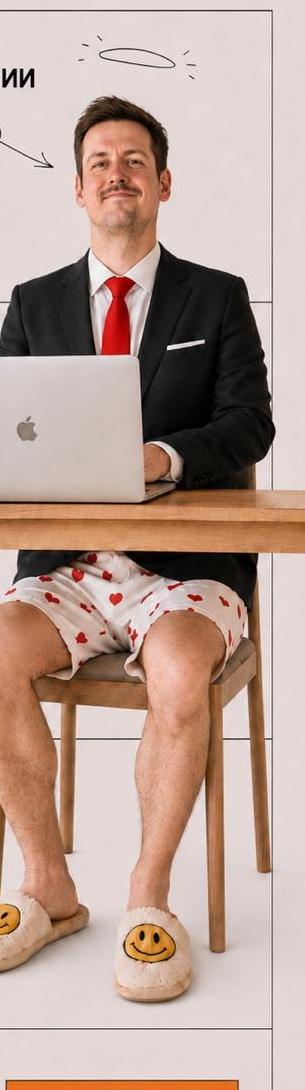
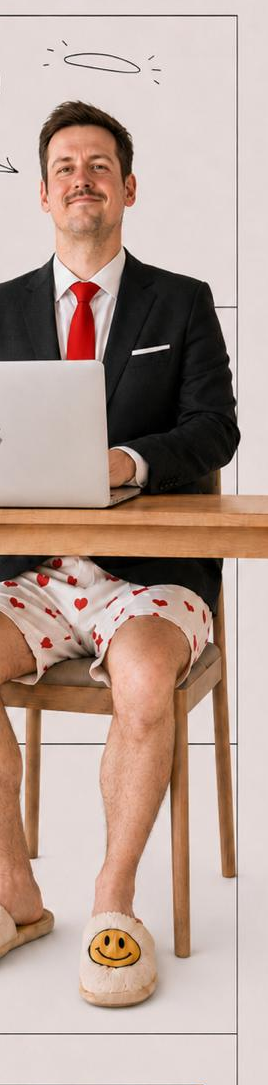
fix(home): tighter portrait crop + taller grid so full figure visible on desktop

diff --git a/app/page.tsx b/app/page.tsx
@@ -23,8 +23,8 @@ export default function Home() {
           className="
             grid
             md:grid-cols-[1fr_1.35fr_1.05fr]
-            lg:grid-cols-[0.9fr_1.2fr_1.2fr_2.7fr]
-            lg:auto-rows-min
+            lg:grid-cols-[1fr_1.35fr_1.35fr_1.7fr]
+            lg:min-h-[1100px]
           "
         >
           {/* ── Row 1 · col 1 · Философия ── */}
@@ -51,14 +51,14 @@ export default function Home() {
           </Cell>
 
           {/* ── Фото · md: col 3 rowspan 3 · lg: col 4 rowspan 4 ── */}
-          <div className="relative hidden border-b border-ink/30 md:col-start-3 md:row-span-3 md:block md:min-h-[720px] lg:col-start-4 lg:row-span-4 lg:min-h-[820px]">
+          <div className="relative hidden bg-paper border-b border-ink/30 md:col-start-3 md:row-span-3 md:block md:min-h-[720px] lg:col-start-4 lg:row-span-4 lg:min-h-[1100px]">
             <Image
               src="/portrait-raw.png"
               alt="Александр Корзун"
               fill
-              className="object-contain object-[center_top] lg:object-[center_center]"
+              className="object-contain object-center"
               priority
-              sizes="(min-width:1024px) 45vw, 30vw"
+              sizes="(min-width:1024px) 30vw, 30vw"
             />
           </div>
           {/* Mobile-only фото (сжатое) */}
